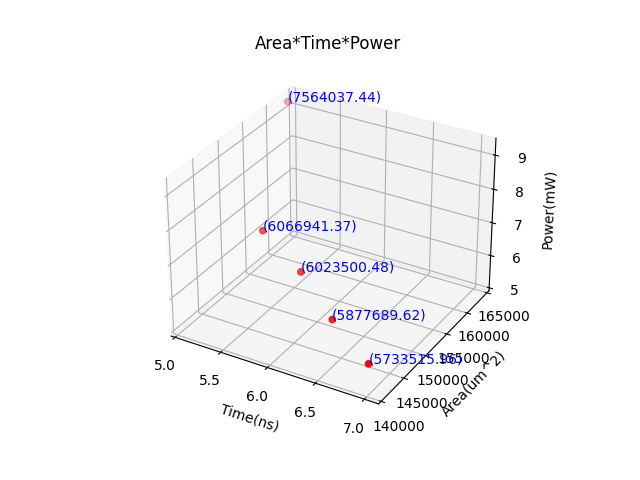
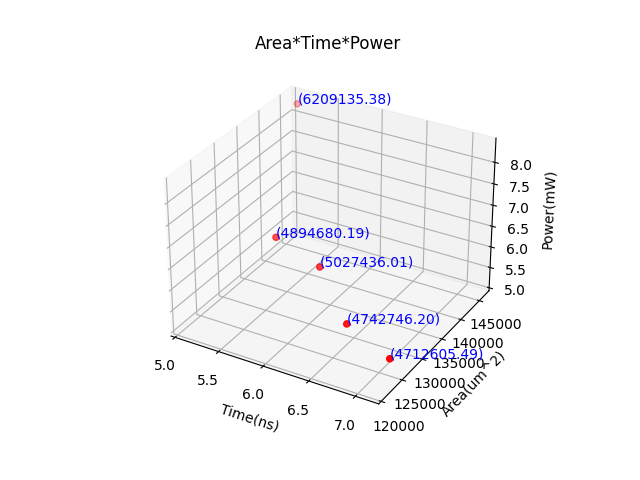
PoT-Shift3-bit

diff --git a/sw/ftoi_b.cpp b/sw/ftoi_b.cpp
@@ -15,46 +15,22 @@ int main(){
         for (int j = 0; j < 4; j++) {
             switch(a[i][j]){
                 case 0 :
-                    outputFile << "1000" ;
+                    outputFile << "100" ;
                     break;
                 case 1:
-                    outputFile << "1001";
+                    outputFile << "101";
                     break;
                 case 2 :
-                    outputFile << "1010" ;
+                    outputFile << "110" ;
                     break;
                 case 3 :
-                    outputFile << "1011" ;
+                    outputFile << "000" ;
                     break;
                 case 4 :
-                    outputFile << "1100" ;
+                    outputFile << "001" ;
                     break;
                 case 5 :
-                    outputFile << "1101" ;
-                    break;
-                case 6 :
-                    outputFile << "1110" ;
-                    break;
-                 case 7 :
-                    outputFile << "0000" ;
-                    break;
-                case 8:
-                    outputFile << "0001";
-                    break;
-                case 9 :
-                    outputFile << "0010" ;
-                    break;
-                case 10 :
-                    outputFile << "0011";
-                    break;
-                case 11 :
-                    outputFile << "0100" ;
-                    break;
-                case 12 :
-                    outputFile << "0101" ;
-                    break;
-                case 13 :
-                    outputFile << "0110" ;
+                    outputFile << "010" ;
                     break;
                 default : break;
             }
@@ -69,46 +45,22 @@ int main(){
         for (int j = 4; j < 8; j++) {
             switch(a[i][j]){
                 case 0 :
-                    outputFile << "1000" ;
+                    outputFile << "100" ;
                     break;
                 case 1:
-                    outputFile << "1001";
+                    outputFile << "101";
                     break;
                 case 2 :
-                    outputFile << "1010" ;
+                    outputFile << "110" ;
                     break;
                 case 3 :
-                    outputFile << "1011" ;
+                    outputFile << "000" ;
                     break;
                 case 4 :
-                    outputFile << "1100" ;
+                    outputFile << "001" ;
                     break;
                 case 5 :
-                    outputFile << "1101" ;
-                    break;
-                case 6 :
-                    outputFile << "1110" ;
-                    break;
-                 case 7 :
-                    outputFile << "0000" ;
-                    break;
-                case 8:
-                    outputFile << "0001";
-                    break;
-                case 9 :
-                    outputFile << "0010" ;
-                    break;
-                case 10 :
-                    outputFile << "0011";
-                    break;
-                case 11 :
-                    outputFile << "0100" ;
-                    break;
-                case 12 :
-                    outputFile << "0101" ;
-                    break;
-                case 13 :
-                    outputFile << "0110" ;
+                    outputFile << "010" ;
                     break;
                 default : break;
             }
@@ -122,53 +74,29 @@ int main(){
         for (int j = 8; j < 10; j++) {
             switch(a[i][j]){
                 case 0 :
-                    outputFile << "1000" ;
+                    outputFile << "100" ;
                     break;
                 case 1:
-                    outputFile << "1001";
+                    outputFile << "101";
                     break;
                 case 2 :
-                    outputFile << "1010" ;
+                    outputFile << "110" ;
                     break;
                 case 3 :
-                    outputFile << "1011" ;
+                    outputFile << "000" ;
                     break;
                 case 4 :
-                    outputFile << "1100" ;
+                    outputFile << "001" ;
                     break;
                 case 5 :
-                    outputFile << "1101" ;
-                    break;
-                case 6 :
-                    outputFile << "1110" ;
-                    break;
-                 case 7 :
-                    outputFile << "0000" ;
-                    break;
-                case 8:
-                    outputFile << "0001";
-                    break;
-                case 9 :
-                    outputFile << "0010" ;
-                    break;
-                case 10 :
-                    outputFile << "0011";
-                    break;
-                case 11 :
-                    outputFile << "0100" ;
-                    break;
-                case 12 :
-                    outputFile << "0101" ;
-                    break;
-                case 13 :
-                    outputFile << "0110" ;
+                    outputFile << "010" ;
                     break;
                 default : break;
             }
             if (j == 8)
                 outputFile <<  "_";
             else {
-                outputFile << "_0111_0111";
+                outputFile << "_011_011";
             }
         }
         outputFile <<  endl;

diff --git a/sw/compute_POT.cpp b/sw/compute_POT.cpp
@@ -6,85 +6,45 @@ using namespace std;
 int main() {
     float x;
     map<float, int> compress_map;
-    float temp[14];
+    float temp[6];
     int ans;
     for(int i=0 ; i<10; i++){
         for(int j=0 ; j<10 ; j++){
             cin >> x;
-            temp[0] = abs(x+0.0625);
+            temp[0] = abs(x+0.25);
             ans = 0;
-            temp[1] = abs(x+0.125);
+            temp[1] = abs(x+0.5);
             if(temp[1] < temp[ans]) ans = 1;
-            temp[2] = abs(x+0.25);
+            temp[2] = abs(x+1);
             if(temp[2] < temp[ans]) ans = 2;
-            temp[3] = abs(x+0.5);
+            temp[3] = abs(x-0.25);
             if(temp[3] < temp[ans]) ans = 3;
-            temp[4] = abs(x+1);
+            temp[4] = abs(x-0.5);
             if(temp[4] < temp[ans]) ans = 4;
-            temp[5] = abs(x+2);
+            temp[5] = abs(x-1);
             if(temp[5] < temp[ans]) ans = 5;
-            temp[6] = abs(x+4);
-            if(temp[6] < temp[ans]) ans = 6;
-            temp[7] = abs(x-0.0625);
-            if(temp[7] < temp[ans]) ans = 7;
-            temp[8] = abs(x-0.125);
-            if(temp[8] < temp[ans]) ans = 8;
-            temp[9] = abs(x-0.25);
-            if(temp[9] < temp[ans]) ans = 9;
-            temp[10] = abs(x-0.5);
-            if(temp[10] < temp[ans]) ans = 10;
-            temp[11] = abs(x-1);
-            if(temp[11] < temp[ans]) ans = 11;
-            temp[12] = abs(x-2);
-            if(temp[12] < temp[ans]) ans = 12;
-            temp[13] = abs(x-4);
-            if(temp[13] < temp[ans]) ans = 13;
         //    switch(ans){
         //         case 0 :
-        //             cout << "-0.0625" << endl;
-        //             break;
-        //         case 1 :
-        //             cout << "-0.125" << endl;
-        //             break;
-        //         case 2 :
         //             cout << "-0.25" << endl;
         //             break;
-        //         case 3 :
+        //         case 1 :
         //             cout << "-0.5" << endl;
         //             break;
-        //         case 4 :
+        //         case 2 :
         //             cout << "-1" << endl;
         //             break;
-        //         case 5 :
-        //             cout << "-2" << endl;
-        //             break;
-        //         case 6 :
-        //             cout << "-4" << endl;
-        //             break;
-        //         case 7 :
-        //             cout << "0.0625" << endl;
-        //             break;
-        //         case 8 :
-        //             cout << "0.125" << endl;
-        //             break;
-        //         case 9 :
+        //         case 3 :
         //             cout << "0.25" << endl;
         //             break;
-        //         case 10 :
+        //         case 4 :
         //             cout << "0.5" << endl;
         //             break;
-        //         case 11 :
+        //         case 5 :
         //             cout << "1" << endl;
-        //             break;
-        //         case 12 :
-        //             cout << "2" << endl;
-        //             break;
-        //         case 13 :
-        //             cout << "4" << endl;
         //             break;
         //         default : break;
         //     }
-         cout << ans << endl;
+            cout << ans << endl;
         }
     }
 

diff --git a/sw/draw_PTA.py b/sw/draw_PTA.py
@@ -29,8 +29,8 @@ for i in range(len(x)):
 ax.set_xlabel('Time(ns)')
 ax.set_ylabel('Area(um^2)')
 ax.set_zlabel('Power(mW)')
-ax.set_xlim(5.0, None)
-ax.set_ylim(140000, None)
+ax.set_xlim(5, None)
+ax.set_ylim(120000, None)
 ax.set_zlim(5, None)
 ax.set_title('Area*Time*Power')
 

diff --git a/README.md b/README.md
@@ -1,11 +1,11 @@
 # Weight-Compression-neural-network-accelerator-for-edge-computing
-* 此為最終版本 PoT-Shift4-bit
+* 此為最終版本 PoT-Shift3-bit
 * 修改項目 : 修改編碼方式，使之更有利於硬體設計(Mac.v)
 * 其他最終版本
   * Branch baseline
   * Branch huffman
   * Branch dictionary-based
-  * Branch PoT-Shift3-bit
+  * Branch PoT-Shift4-bit
 
 ## Get started
 **Makefile**
